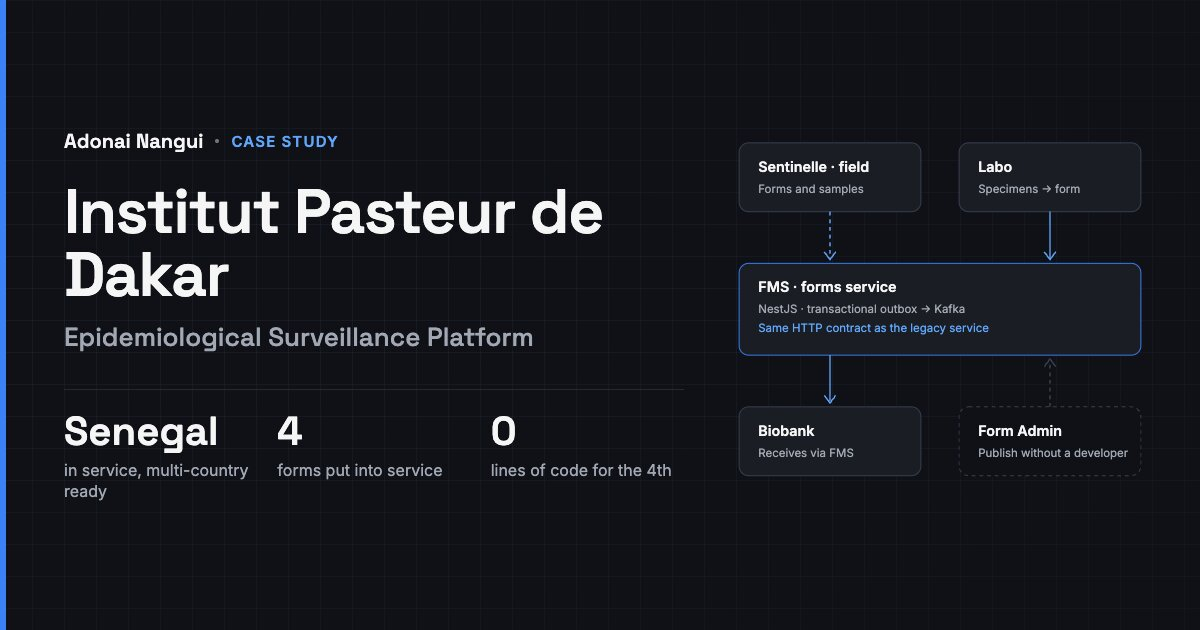
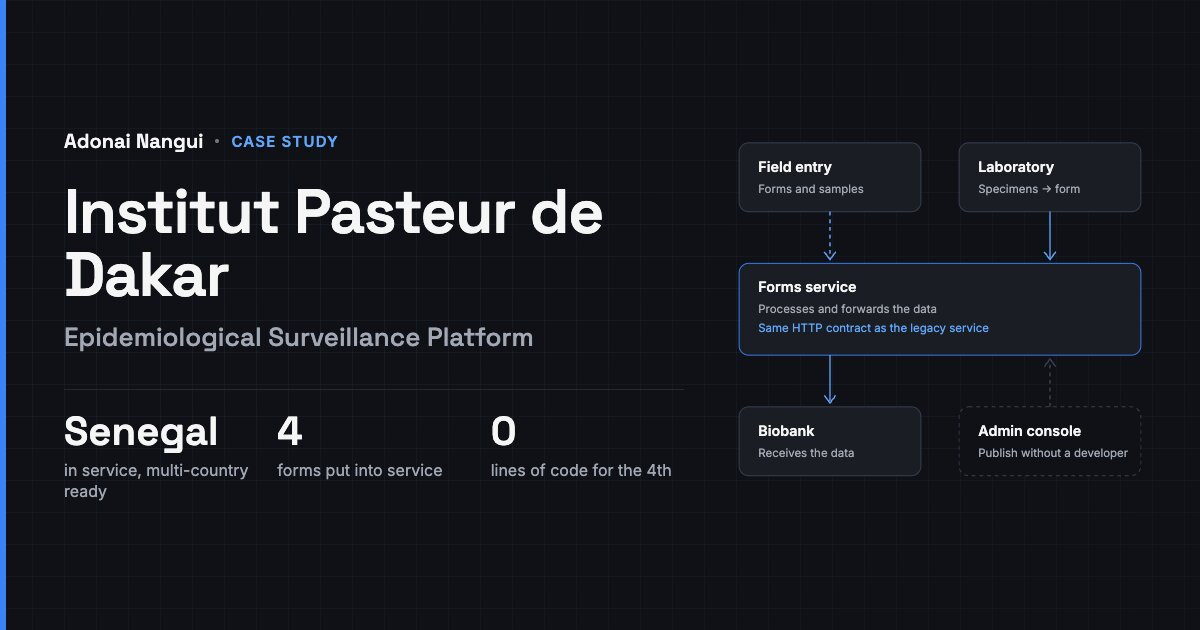
content(pasteur): remove client-sensitive details from the case study
The client stays named, but the published material no longer exposes: internal application names,
the security and messaging architecture, the legacy stack, commit shares, the named surveillance
forms, the outbreak context, the blocked-environment incident and the contract duration.

Diagram labels and share images now describe roles (field entry, laboratory, forms service, admin
console) instead of the client's internal application names.

diff --git a/src/i18n/translations.ts b/src/i18n/translations.ts
@@ -140,11 +140,11 @@ export const translations: Translations = {
       // Institut Pasteur de Dakar
       'pasteur.role': 'Ingénieur logiciel full-stack - Consultant',
       'pasteur.period': 'Mar 2026 - Août 2026',
-      'pasteur.impact1': 'Remplacement progressif, route par route et sans interruption, du service de formulaires d\'un programme de surveillance sanitaire, en service au Sénégal et prêt pour les autres pays où Sentinelle est déployée',
-      'pasteur.impact2': 'Conception de FMS (Form Management Service) en NestJS, architecture hexagonale : messagerie Kafka fiable par transactional outbox et sécurité Keycloak multi-realm',
-      'pasteur.impact3': 'Conception de Form Admin, l\'application d\'administration des formulaires, et d\'une librairie de 19 composants Angular partagés par trois applications',
-      'pasteur.impact4': 'Contribution à Sentinelle, l\'application terrain offline-first, avec un moteur de rendu de formulaires sur mesure (environ 4 400 lignes)',
-      'pasteur.impact5': 'Fiche de surveillance de la diphtérie publiée pendant l\'épidémie via Form Admin, sans code ni redéploiement',
+      'pasteur.impact1': 'Remplacement progressif, route par route et sans interruption, du service de formulaires d\'un programme de surveillance sanitaire, en service au Sénégal et prêt pour les autres pays où la plateforme est déployée',
+      'pasteur.impact2': 'Conception du service de gestion des formulaires en NestJS, architecture hexagonale, avec une messagerie fiable et un contrôle d\'accès par rôle, site et étape',
+      'pasteur.impact3': 'Conception de la console d\'administration des formulaires et d\'une librairie de 19 composants Angular partagés par trois applications',
+      'pasteur.impact4': 'Contribution à l\'application de saisie terrain offline-first, avec un moteur de rendu de formulaires sur mesure (environ 4 400 lignes)',
+      'pasteur.impact5': 'Quatrième fiche de surveillance publiée dans l\'urgence via la console d\'administration, sans code ni redéploiement',
       // Djoubo
       'djoubo.role': 'Tech Lead',
       'djoubo.period': 'Jan 2025 - Déc 2025',
@@ -196,11 +196,11 @@ export const translations: Translations = {
       // Institut Pasteur de Dakar
       'pasteur.role': 'Full-Stack Software Engineer - Consultant',
       'pasteur.period': 'Mar 2026 - Aug 2026',
-      'pasteur.impact1': 'Progressive, route-by-route replacement with no downtime of the forms service of a health surveillance programme, in service in Senegal and ready for the other countries where Sentinelle is deployed',
-      'pasteur.impact2': 'Design of FMS (Form Management Service) in NestJS with hexagonal architecture: reliable Kafka messaging through a transactional outbox and multi-realm Keycloak security',
-      'pasteur.impact3': 'Design of Form Admin, the forms administration application, and of a library of 19 Angular components shared by three applications',
-      'pasteur.impact4': 'Contribution to Sentinelle, the offline-first field application, with a custom form rendering engine (roughly 4,400 lines)',
-      'pasteur.impact5': 'Diphtheria surveillance form published during the outbreak through Form Admin, with no code and no redeployment',
+      'pasteur.impact1': 'Progressive, route-by-route replacement with no downtime of the forms service of a health surveillance programme, in service in Senegal and ready for the other countries where the platform is deployed',
+      'pasteur.impact2': 'Design of the forms management service in NestJS with hexagonal architecture, reliable messaging and access control by role, site and step',
+      'pasteur.impact3': 'Design of the forms administration console and of a library of 19 Angular components shared by three applications',
+      'pasteur.impact4': 'Contribution to the offline-first field data entry application, with a custom form rendering engine (roughly 4,400 lines)',
+      'pasteur.impact5': 'Fourth surveillance form published under pressure through the administration console, with no code and no redeployment',
       // Djoubo
       'djoubo.role': 'Tech Lead',
       'djoubo.period': 'Jan 2025 - Dec 2025',

diff --git a/src/content/projects/institut-pasteur-dakar.fr.md b/src/content/projects/institut-pasteur-dakar.fr.md
@@ -2,9 +2,9 @@
 slug: "institut-pasteur-dakar-fr"
 title_fr: "Institut Pasteur de Dakar - Plateforme de surveillance épidémiologique"
 title_en: "Institut Pasteur de Dakar - Epidemiological Surveillance Platform"
-description_fr: "Conception et remplacement progressif du service de formulaires d'un programme national de surveillance sanitaire, en service au Sénégal et prêt pour les autres pays où l'application Sentinelle est déployée."
-description_en: "Design and progressive replacement of the forms service of a national health surveillance programme, in service in Senegal and ready for the other countries where the Sentinelle app is deployed."
-stack: ["NestJS", "Angular", "Kafka", "PostgreSQL", "Keycloak", "Drizzle ORM", "Fastify", "TypeScript", "IndexedDB", "Storybook", "Kubernetes"]
+description_fr: "Conception et remplacement progressif du service de formulaires d'un programme national de surveillance sanitaire, en service au Sénégal et prêt pour les autres pays où la plateforme est déployée."
+description_en: "Design and progressive replacement of the forms service of a national health surveillance programme, in service in Senegal and ready for the other countries where the platform is deployed."
+stack: ["NestJS", "Angular", "TypeScript", "PostgreSQL", "Docker"]
 featured: true
 role_fr: "Ingénieur logiciel full-stack - Consultant"
 role_en: "Full-Stack Software Engineer - Consultant"
@@ -26,38 +26,27 @@ highlights_en:
   - value: "0"
     label: "lines of code for the 4th"
 contributions_fr:
-  - title: "Service de gestion des formulaires (FMS)"
+  - title: "Service de gestion des formulaires"
     role: "Conception et développement"
-    share: "≈ 98 % des commits"
-    stack: ["NestJS 10", "Fastify", "TypeScript", "Drizzle ORM", "PostgreSQL", "Kafka", "Keycloak", "Jest"]
-    summary: "FMS (Form Management Service), le cœur de la plateforme, écrit pour se substituer au service historique route par route."
+    summary: "Le cœur de la plateforme, écrit pour se substituer au service historique route par route."
     details:
       - title: "Migration progressive à contrat constant."
         text: " Le nouveau service reproduit exactement le contrat HTTP de l'ancien. Chaque route peut basculer indépendamment, sans qu'aucune application cliente ait à changer, et sans fenêtre d'interruption."
-      - title: "Architecture hexagonale, dix contextes bornés."
+      - title: "Architecture hexagonale."
         text: " Domaine, ports, infrastructure et présentation séparés, ports injectés par jetons. Les tests de bout en bout s'exécutent sur des doubles en mémoire, sans infrastructure réelle."
-      - title: "Messagerie fiable par transactional outbox."
-        text: " Les événements Kafka sont écrits en base dans la même transaction que la donnée, puis drainés par un worker dédié avec purge planifiée et métriques Prometheus. La base reste la source de vérité : un incident du broker ne fait jamais échouer la soumission d'un agent sur le terrain."
-      - title: "Sécurité multi-realm."
-        text: " Authentification Keycloak avec validation stricte de l'émetteur, et contrôle d'accès par liaisons rôle / site / étape, avec des politiques distinctes pour lire, démarrer et remplir un formulaire."
+      - title: "Messagerie fiable."
+        text: " Les événements sont écrits en base dans la même transaction que la donnée, puis publiés par un worker dédié. La base reste la source de vérité : un incident de la messagerie ne fait jamais échouer la soumission d'un agent sur le terrain."
       - title: "Formulaires pilotés par les données."
         text: " Un nouveau formulaire alimente le circuit des prélèvements dès que son schéma déclare le bloc correspondant. Plus de liste codée en dur, plus de redéploiement backend pour publier une fiche."
-      - title: "Intégrations"
-        text: " avec les services patients, analyses et biobanque, référentiels résolus et mis en cache, stockage objet MinIO, synchronisation avec le système de formulaires existant."
-  - title: "Librairie de composants Angular partagés"
+  - title: "Librairie de composants partagés"
     role: "Conception et maintenance"
-    share: "≈ 92 % des commits"
-    stack: ["Angular", "PrimeNG", "ng-packagr", "Storybook", "jetons de design CSS", "publication par tags Git"]
     summary: "Dix-neuf composants partagés par trois applications, construits selon une stratégie « kit-first » : extraire plutôt que dupliquer. Wizard et navigation par sous-étapes, grilles éditables, champs texte, sélection, chips, tuiles, compteur, date et heure, téléversement, géolocalisation, enregistrement automatique."
-  - title: "Console d'administration des formulaires (Form Admin)"
+  - title: "Console d'administration des formulaires"
     role: "Conception et développement"
-    share: "≈ 98 % des commits"
-    summary: "Form Admin, l'application Angular de conception, versionnement, publication et gestion des accès aux formulaires. C'est elle qui rend le reste utilisable sans développeur."
-  - title: "Application de saisie terrain (Sentinelle)"
+    summary: "L'application de conception, versionnement, publication et gestion des accès aux formulaires. C'est elle qui rend le reste utilisable sans développeur."
+  - title: "Application de saisie terrain"
     role: "Contributeur majeur"
-    share: "≈ 24 % des commits"
-    stack: ["Angular standalone", "PrimeNG", "Dexie / IndexedDB", "Keycloak", "service worker"]
-    summary: "Sentinelle, la Progressive Web App utilisée par les agents de santé, déjà en production à mon arrivée."
+    summary: "La Progressive Web App utilisée par les agents de santé, déjà en production à mon arrivée."
     details:
       - title: "Moteur de rendu de formulaires sur mesure"
         text: ", environ 4 400 lignes, sans dépendance à la bibliothèque tierce utilisée jusque-là : wizard, champs conditionnels, grilles, validation par étape, préremplissage."
@@ -67,55 +56,51 @@ contributions_fr:
         text: " : passage d'un signalement communautaire à une fiche clinique préremplie."
   - title: "Application laboratoire"
     role: "Intégration"
-    summary: "Rattachement des prélèvements à une fiche : on choisit un projet puis une fiche, on la saisit et on l'envoie à FMS, qui transmet ensuite les données à la biobanque. Travail principalement côté backend, avec le réalignement du moteur de rendu de cette application sur celui de l'application terrain."
+    summary: "Rattachement des prélèvements à une fiche : on choisit un projet puis une fiche, on la saisit et on l'envoie au service de formulaires, qui transmet ensuite les données à la biobanque. Travail principalement côté backend, avec le réalignement du moteur de rendu de cette application sur celui de l'application terrain."
   - title: "Infrastructure et livraison"
-    stack: ["Kubernetes", "kustomize", "Jenkins", "Docker"]
-    summary: "Overlays par environnement, chaînes CI/CD, gestion de la configuration et des secrets. Diagnostic et remise en état d'un environnement bloqué, avec la correction portée dans l'infrastructure-as-code plutôt qu'appliquée à la main."
+    summary: "Configuration par environnement, chaînes d'intégration et de déploiement continus, gestion des secrets."
 decisions_fr:
   - title: "Reproduire à l'identique le contrat HTTP du service historique"
     text: "Cela oblige à hériter de choix d'API qu'on n'aurait pas faits soi-même, et à les porter dans une architecture neuve. En échange, la bascule se fait route par route, chaque étape est réversible, et aucune application cliente n'a eu à être modifiée. Sur un système de surveillance sanitaire, la réversibilité vaut plus que l'élégance."
-  - title: "Outbox transactionnel plutôt que publication directe vers Kafka"
-    text: "Un worker de drainage et une purge de plus à exploiter, contre la garantie qu'une indisponibilité du broker ne remonte jamais jusqu'à l'agent. Quand la saisie a lieu sur le terrain, un échec d'envoi ne se rattrape pas : la personne est repartie."
+  - title: "Écrire les événements en base avant de les publier"
+    text: "Un worker de publication et une purge de plus à exploiter, contre la garantie qu'une indisponibilité de la messagerie ne remonte jamais jusqu'à l'agent. Quand la saisie a lieu sur le terrain, un échec d'envoi ne se rattrape pas : la personne est repartie."
   - title: "Doubles en mémoire plutôt que conteneurs de test"
-    text: "Cela impose une discipline de conception — tout ce qui sort du domaine doit passer par un port — mais la suite de bout en bout s'exécute n'importe où, sans base, sans broker, sans fournisseur d'identité."
+    text: "Cela impose une discipline de conception — tout ce qui sort du domaine doit passer par un port — mais la suite de bout en bout s'exécute n'importe où, sans base, sans messagerie, sans fournisseur d'identité."
   - title: "Déclarer le circuit des prélèvements dans le schéma du formulaire"
     text: "L'alternative, une liste de types maintenue côté backend, aurait conservé le couplage qu'on cherchait précisément à supprimer. Le critère de réussite était qu'une nouvelle fiche ne demande plus de développeur."
   - title: "Écrire un moteur de rendu sur mesure côté terrain"
     text: "Plutôt que de conserver la dépendance existante. Environ 4 400 lignes à maintenir, contre la maîtrise complète du comportement hors ligne, de la validation par étape et du préremplissage — soit exactement ce dont dépendait l'usage réel."
   - title: "Extraire les composants avant de les dupliquer"
     text: "Trois applications, une bibliothèque versionnée et publiée : une correction faite une fois profite aux trois, et les divergences visuelles ne s'installent pas."
-  - title: "Corriger un environnement bloqué dans l'infrastructure-as-code"
-    text: "Une remise en route manuelle aurait été plus rapide et se serait redéfaite au déploiement suivant."
 deliveries_fr:
   intro: "Un moteur de formulaires ne vaut que par ce qu'il accepte de porter. Quatre fiches ont été mises en service au Sénégal, de natures délibérément éloignées."
   items:
-    - title: "SARI — surveillance des infections respiratoires aiguës sévères"
-      text: "Circuit hospitalier, avec des échantillons rattachés à la fiche, traités par FMS puis transmis à la biobanque."
-    - title: "CVACi — Cellules de Veille et d'Alerte Communautaire intégrée"
-      text: "La surveillance à base communautaire est l'un des piliers de la sécurité sanitaire : elle capte les signaux là où ils apparaissent, avant qu'ils n'atteignent une structure de soins. Le circuit est à deux étapes, d'un agent communautaire vers un professionnel de santé qui valide, avec passage automatique dans la file du valideur. Une passerelle bidirectionnelle relie ces signalements à la fiche clinique correspondante, préremplie depuis la source."
-    - title: "Déclaration des décès maternels et néonatals"
+    - title: "Un circuit hospitalier"
+      text: "Des échantillons rattachés à la fiche, traités par le service de formulaires puis transmis à la biobanque."
+    - title: "Un circuit communautaire"
+      text: "La surveillance à base communautaire capte les signaux là où ils apparaissent, avant qu'ils n'atteignent une structure de soins. Le circuit est à deux étapes, d'un agent communautaire vers un professionnel de santé qui valide, avec passage automatique dans la file du valideur. Une passerelle bidirectionnelle relie ces signalements à la fiche clinique correspondante, préremplie depuis la source."
+    - title: "Une notification irréversible"
       text: "Une notification, pas une observation clinique : la transmission est définitive, ce qui impose un récapitulatif exhaustif avant envoi."
-    - title: "Diphtérie"
-      text: "Publiée pendant l'épidémie."
+    - title: "Une quatrième fiche, publiée en urgence"
+      text: "Mise en service par la voie prévue, sans développeur."
   outro: "Les trois premières ont été livrées pendant la construction de la plateforme. Ce sont elles qui ont éprouvé la généralité du moteur : un circuit hospitalier, un circuit communautaire à validation en deux temps et une notification irréversible n'ont presque rien en commun, et devoir les faire tenir dans la même abstraction est ce qui a façonné la conception."
 proof_fr:
   intro: "La quatrième démontre autre chose."
-  lead: "Toute la plateforme repose sur une promesse : publier une nouvelle fiche ne doit plus demander de développeur. Dans le contexte de la réponse à une épidémie de diphtérie, la fiche de surveillance correspondante a été mise en service via la console d'administration, sans écrire de code et sans redéployer le backend."
+  lead: "Toute la plateforme repose sur une promesse : publier une nouvelle fiche ne doit plus demander de développeur. Dans l'urgence d'une réponse sanitaire, la fiche correspondante a été mise en service via la console d'administration, sans écrire de code et sans redéployer le backend."
   text: "C'est la seule validation qui compte pour ce type de système. Tant qu'une fiche n'a pas été publiée dans l'urgence, par la voie prévue, une architecture découplée reste une intention."
-  note: "La mission s'est achevée au terme des cinq mois de contrat, suivie d'une intervention ponctuelle d'une semaine en septembre dans le cadre de la réponse épidémique."
 ---
 
 ## Le contexte
 
-L'Institut Pasteur de Dakar est l'un des principaux acteurs de santé publique d'Afrique de l'Ouest. Son programme 4S assure la surveillance sanitaire syndromique et sentinelle.
+L'Institut Pasteur de Dakar est l'un des principaux acteurs de santé publique d'Afrique de l'Ouest, et conduit des programmes de surveillance sanitaire.
 
-Concrètement : des agents de santé saisissent sur le terrain, dans l'application Sentinelle, des fiches épidémiologiques — infections respiratoires, surveillance communautaire, décès maternels et néonatals, diphtérie — accompagnées pour certaines d'échantillons. Au laboratoire, l'application Labo rattache les prélèvements à une fiche. Les deux applications envoient leurs données au service de formulaires, qui les traite puis les transmet à la biobanque.
+Concrètement : des agents de santé saisissent sur le terrain des fiches épidémiologiques, accompagnées pour certaines d'échantillons. Au laboratoire, les prélèvements sont rattachés à une fiche. Les deux applications envoient leurs données au service de formulaires, qui les traite puis les transmet à la biobanque.
 
-À mon arrivée, l'application Sentinelle était déjà déployée. J'ai ajouté les briques qui rendent les fiches configurables sans développeur : FMS (Form Management Service), le backend de gestion des formulaires ; Form Admin, l'application d'administration des formulaires ; et une librairie de composants partagés. Les fiches sont aujourd'hui en service au Sénégal ; la solution est livrée et configurée pour être utilisée dans les autres pays où Sentinelle est déployée.
+À mon arrivée, l'application de saisie terrain était déjà déployée. J'ai ajouté les briques qui rendent les fiches configurables sans développeur : le backend de gestion des formulaires, la console d'administration, et une librairie de composants partagés. Les fiches sont aujourd'hui en service au Sénégal ; la solution est livrée et configurée pour être utilisée dans les autres pays où la plateforme est déployée.
 
 ## Le problème
 
-Le système reposait sur un service Django historique dans lequel chaque nouvelle fiche impliquait du code : une liste de types en dur, et un redéploiement du backend pour publier un formulaire. Une temporalité de développement logiciel imposée à un besoin de santé publique.
+Le système reposait sur un service historique dans lequel chaque nouvelle fiche impliquait du code : une liste de types en dur, et un redéploiement du backend pour publier un formulaire. Une temporalité de développement logiciel imposée à un besoin de santé publique.
 
 La difficulté n'était pas de concevoir un meilleur système. Elle était de le substituer à un système déjà en production, utilisé dans plusieurs pays, sans interruption. On n'arrête pas une chaîne de surveillance sanitaire le temps d'une migration.
 
@@ -129,6 +114,6 @@ La difficulté n'était pas de concevoir un meilleur système. Elle était de le
 
 **Une fiche traverse plusieurs métiers.** Elle est découpée en étapes attribuées à des rôles différents, avec passation, revue et droits distincts selon qu'on lit, qu'on démarre ou qu'on remplit.
 
-**Plusieurs périmètres d'authentification.** Les applications consommatrices ne partagent pas le même realm.
+**Plusieurs périmètres d'authentification.** Les applications consommatrices ne partagent pas le même annuaire.
 
 **Des données de santé.** Cloisonnement strict, traçabilité, intégrité des prélèvements une fois entrés dans le circuit laboratoire.

diff --git a/src/content/projects/institut-pasteur-dakar.en.md b/src/content/projects/institut-pasteur-dakar.en.md
@@ -2,9 +2,9 @@
 slug: "institut-pasteur-dakar-en"
 title_fr: "Institut Pasteur de Dakar - Plateforme de surveillance épidémiologique"
 title_en: "Institut Pasteur de Dakar - Epidemiological Surveillance Platform"
-description_fr: "Conception et remplacement progressif du service de formulaires d'un programme national de surveillance sanitaire, en service au Sénégal et prêt pour les autres pays où l'application Sentinelle est déployée."
-description_en: "Design and progressive replacement of the forms service of a national health surveillance programme, in service in Senegal and ready for the other countries where the Sentinelle app is deployed."
-stack: ["NestJS", "Angular", "Kafka", "PostgreSQL", "Keycloak", "Drizzle ORM", "Fastify", "TypeScript", "IndexedDB", "Storybook", "Kubernetes"]
+description_fr: "Conception et remplacement progressif du service de formulaires d'un programme national de surveillance sanitaire, en service au Sénégal et prêt pour les autres pays où la plateforme est déployée."
+description_en: "Design and progressive replacement of the forms service of a national health surveillance programme, in service in Senegal and ready for the other countries where the platform is deployed."
+stack: ["NestJS", "Angular", "TypeScript", "PostgreSQL", "Docker"]
 featured: true
 role_fr: "Ingénieur logiciel full-stack - Consultant"
 role_en: "Full-Stack Software Engineer - Consultant"
@@ -26,38 +26,27 @@ highlights_en:
   - value: "0"
     label: "lines of code for the 4th"
 contributions_en:
-  - title: "Forms management service (FMS)"
+  - title: "Forms management service"
     role: "Design and development"
-    share: "≈ 98% of commits"
-    stack: ["NestJS 10", "Fastify", "TypeScript", "Drizzle ORM", "PostgreSQL", "Kafka", "Keycloak", "Jest"]
-    summary: "FMS (Form Management Service), the core of the platform, written to replace the legacy service one route at a time."
+    summary: "The core of the platform, written to replace the legacy service one route at a time."
     details:
       - title: "Progressive migration at constant contract."
         text: " The new service reproduces the legacy HTTP contract exactly. Each route can switch over independently, with no change required in any client application and no downtime window."
-      - title: "Hexagonal architecture, ten bounded contexts."
+      - title: "Hexagonal architecture."
         text: " Domain, ports, infrastructure, and presentation kept separate, with ports injected by token. End-to-end tests run against in-memory doubles, with no real infrastructure."
-      - title: "Reliable messaging via transactional outbox."
-        text: " Kafka events are written to the database in the same transaction as the data, then drained by a dedicated worker with scheduled purging and Prometheus metrics. The database stays the source of truth: a broker incident never causes a field worker's submission to fail."
-      - title: "Multi-realm security."
-        text: " Keycloak authentication with strict issuer validation, and access control through role / site / step bindings, with distinct policies for reading, starting, and filling a form."
+      - title: "Reliable messaging."
+        text: " Events are written to the database in the same transaction as the data, then published by a dedicated worker. The database stays the source of truth: a messaging incident never causes a field worker's submission to fail."
       - title: "Data-driven forms."
         text: " A new form feeds the sample circuit as soon as its schema declares the corresponding block. No hard-coded list, no backend redeployment to publish a form."
-      - title: "Integrations"
-        text: " with the patient, analysis, and biobank services, resolved and cached reference data, MinIO object storage, and synchronisation with the existing forms system."
-  - title: "Shared Angular component library"
+  - title: "Shared component library"
     role: "Design and maintenance"
-    share: "≈ 92% of commits"
-    stack: ["Angular", "PrimeNG", "ng-packagr", "Storybook", "CSS design tokens", "released via Git tags"]
     summary: "Nineteen components shared by three applications, built on a kit-first strategy: extract rather than duplicate. Wizard and sub-step navigation, editable grids, text, select, chip, tile, counter, date and time fields, upload, geolocation, autosave."
-  - title: "Forms administration console (Form Admin)"
+  - title: "Forms administration console"
     role: "Design and development"
-    share: "≈ 98% of commits"
-    summary: "Form Admin, the Angular application for designing, versioning, publishing, and managing access to forms. It is what makes the rest usable without a developer."
-  - title: "Field data entry application (Sentinelle)"
+    summary: "The application for designing, versioning, publishing, and managing access to forms. It is what makes the rest usable without a developer."
+  - title: "Field data entry application"
     role: "Major contributor"
-    share: "≈ 24% of commits"
-    stack: ["Angular standalone", "PrimeNG", "Dexie / IndexedDB", "Keycloak", "service worker"]
-    summary: "Sentinelle, the Progressive Web App used by health workers, already in production when I joined."
+    summary: "The Progressive Web App used by health workers, already in production when I joined."
     details:
       - title: "Custom form rendering engine"
         text: ", roughly 4,400 lines, with no dependency on the third-party library used until then: wizard, conditional fields, grids, per-step validation, prefilling."
@@ -67,55 +56,51 @@ contributions_en:
         text: ": moving from a community alert to a prefilled clinical form."
   - title: "Laboratory application"
     role: "Integration"
-    summary: "Linking specimens to a form: pick a project, then a form, fill it in and send it to FMS, which then forwards the data to the biobank. Mostly backend work, along with realigning this application's rendering engine with the field application's."
+    summary: "Linking specimens to a form: pick a project, then a form, fill it in and send it to the forms service, which then forwards the data to the biobank. Mostly backend work, along with realigning this application's rendering engine with the field application's."
   - title: "Infrastructure and delivery"
-    stack: ["Kubernetes", "kustomize", "Jenkins", "Docker"]
-    summary: "Per-environment overlays, CI/CD pipelines, configuration and secrets management. Diagnosis and recovery of a blocked environment, with the fix carried into infrastructure-as-code rather than applied by hand."
+    summary: "Per-environment configuration, continuous integration and deployment pipelines, secrets management."
 decisions_en:
   - title: "Reproducing the legacy HTTP contract exactly"
     text: "This means inheriting API choices you would not have made yourself, and carrying them into a new architecture. In exchange, the switchover happens route by route, every step is reversible, and no client application had to change. On a health surveillance system, reversibility is worth more than elegance."
-  - title: "Transactional outbox rather than publishing straight to Kafka"
-    text: "One more worker and one more purge to operate, against the guarantee that a broker outage never reaches the field worker. When data entry happens in the field, a failed submission cannot be retried: the person has already left."
+  - title: "Writing events to the database before publishing them"
+    text: "One more worker and one more purge to operate, against the guarantee that a messaging outage never reaches the field worker. When data entry happens in the field, a failed submission cannot be retried: the person has already left."
   - title: "In-memory doubles rather than test containers"
-    text: "This imposes design discipline — anything leaving the domain has to go through a port — but the end-to-end suite runs anywhere, with no database, no broker, and no identity provider."
+    text: "This imposes design discipline — anything leaving the domain has to go through a port — but the end-to-end suite runs anywhere, with no database, no messaging, and no identity provider."
   - title: "Declaring the sample circuit in the form schema"
     text: "The alternative, a list of types maintained in the backend, would have preserved exactly the coupling we were trying to remove. The success criterion was that a new form should no longer require a developer."
   - title: "Writing a custom rendering engine on the field side"
     text: "Rather than keeping the existing dependency. Roughly 4,400 lines to maintain, against full control of offline behaviour, per-step validation, and prefilling — precisely what real-world use depended on."
   - title: "Extracting components before duplicating them"
     text: "Three applications, one versioned and published library: a fix made once benefits all three, and visual drift never sets in."
-  - title: "Fixing a blocked environment in infrastructure-as-code"
-    text: "Bringing it back by hand would have been faster and would have undone itself at the next deployment."
 deliveries_en:
   intro: "A forms engine is only worth what it is willing to carry. Four forms went into service in Senegal, deliberately different in nature."
   items:
-    - title: "SARI — surveillance of severe acute respiratory infections"
-      text: "A hospital circuit, with samples attached to the form, processed by FMS and then forwarded to the biobank."
-    - title: "CVACi — integrated community alert and surveillance cells"
-      text: "Community-based surveillance is one of the pillars of health security: it picks up signals where they appear, before they reach a care facility. The circuit has two steps, from a community worker to a health professional who validates, with automatic routing into the validator's queue. A bidirectional bridge links these alerts to the corresponding clinical form, prefilled from the source."
-    - title: "Maternal and neonatal death notification"
+    - title: "A hospital circuit"
+      text: "Samples attached to the form, processed by the forms service and then forwarded to the biobank."
+    - title: "A community circuit"
+      text: "Community-based surveillance picks up signals where they appear, before they reach a care facility. The circuit has two steps, from a community worker to a health professional who validates, with automatic routing into the validator's queue. A bidirectional bridge links these alerts to the corresponding clinical form, prefilled from the source."
+    - title: "An irreversible notification"
       text: "A notification, not a clinical observation: transmission is final, which calls for an exhaustive summary before sending."
-    - title: "Diphtheria"
-      text: "Published during the outbreak."
+    - title: "A fourth form, published under pressure"
+      text: "Put into service through the intended path, with no developer involved."
   outro: "The first three were delivered while the platform was being built. They are what tested the engine's generality: a hospital circuit, a community circuit with two-stage validation, and an irreversible notification have almost nothing in common, and having to fit them into the same abstraction is what shaped the design."
 proof_en:
   intro: "The fourth demonstrates something else."
-  lead: "The whole platform rests on one promise: publishing a new form should no longer require a developer. As part of the response to a diphtheria outbreak, the corresponding surveillance form went into service through the administration console, with no code written and no backend redeployment."
+  lead: "The whole platform rests on one promise: publishing a new form should no longer require a developer. Under the pressure of a health response, the corresponding form went into service through the administration console, with no code written and no backend redeployment."
   text: "That is the only validation that counts for a system of this kind. Until a form has been published under pressure, through the intended path, a decoupled architecture remains an intention."
-  note: "The engagement ended at the close of the five-month contract, followed by a one-week return in September as part of the outbreak response."
 ---
 
 ## Context
 
-Institut Pasteur de Dakar is one of West Africa's leading public health institutions. Its 4S programme runs syndromic and sentinel health surveillance.
+Institut Pasteur de Dakar is one of West Africa's leading public health institutions, and runs health surveillance programmes.
 
-In practice: health workers enter epidemiological forms in the field, in the Sentinelle app — respiratory infections, community surveillance, maternal and neonatal deaths, diphtheria — some of them with samples. At the laboratory, the Labo app links specimens to a form. Both apps send their data to the forms service, which processes it and then forwards it to the biobank.
+In practice: health workers enter epidemiological forms in the field, some of them with samples. At the laboratory, specimens are linked to a form. Both applications send their data to the forms service, which processes it and then forwards it to the biobank.
 
-When I joined, the Sentinelle app was already deployed. I added the building blocks that make forms configurable without a developer: FMS (Form Management Service), the forms management backend; Form Admin, the forms administration application; and a shared component library. The forms are in service in Senegal today; the solution is delivered and configured to be used in the other countries where Sentinelle is deployed.
+When I joined, the field data entry application was already deployed. I added the building blocks that make forms configurable without a developer: the forms management backend, the administration console, and a shared component library. The forms are in service in Senegal today; the solution is delivered and configured to be used in the other countries where the platform is deployed.
 
 ## The problem
 
-The system relied on a legacy Django service in which every new form meant writing code: a hard-coded list of types, and a backend redeployment to publish a form. A software delivery timeline imposed on a public health need.
+The system relied on a legacy service in which every new form meant writing code: a hard-coded list of types, and a backend redeployment to publish a form. A software delivery timeline imposed on a public health need.
 
 The difficulty was not designing a better system. It was substituting it for one already in production, used in several countries, without interruption. You do not take a health surveillance chain offline for the duration of a migration.
 
@@ -129,6 +114,6 @@ The difficulty was not designing a better system. It was substituting it for one
 
 **A form crosses several roles.** It is split into steps assigned to different roles, with handover, review, and distinct permissions depending on whether you read, start, or fill it.
 
-**Several authentication boundaries.** The consuming applications do not share a realm.
+**Several authentication boundaries.** The consuming applications do not share a directory.
 
 **Health data.** Strict compartmentalisation, traceability, and sample integrity once a specimen has entered the laboratory circuit.
